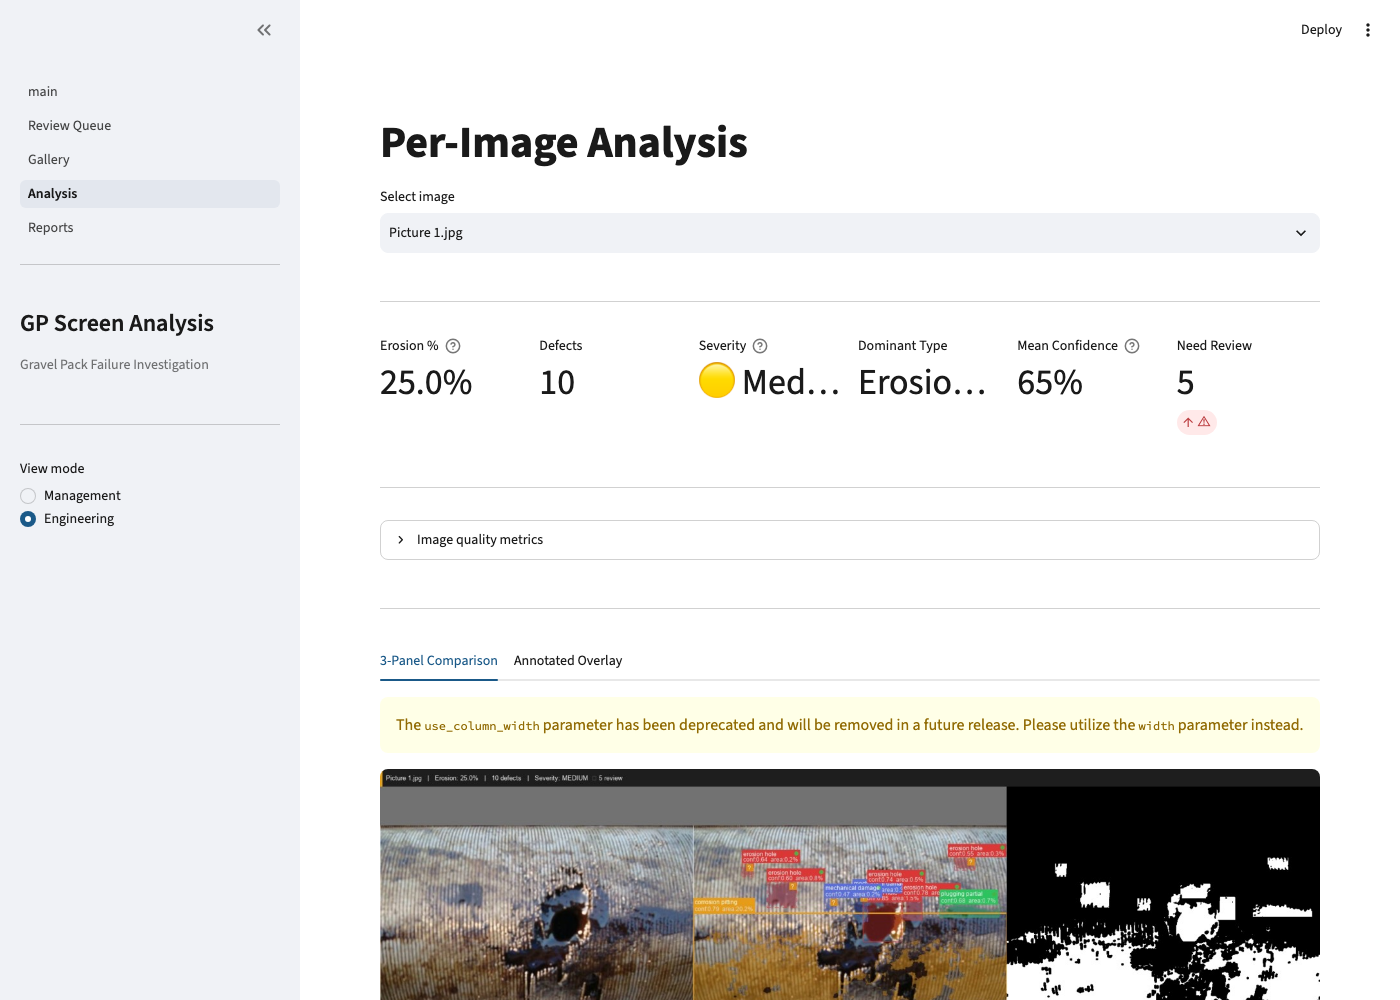
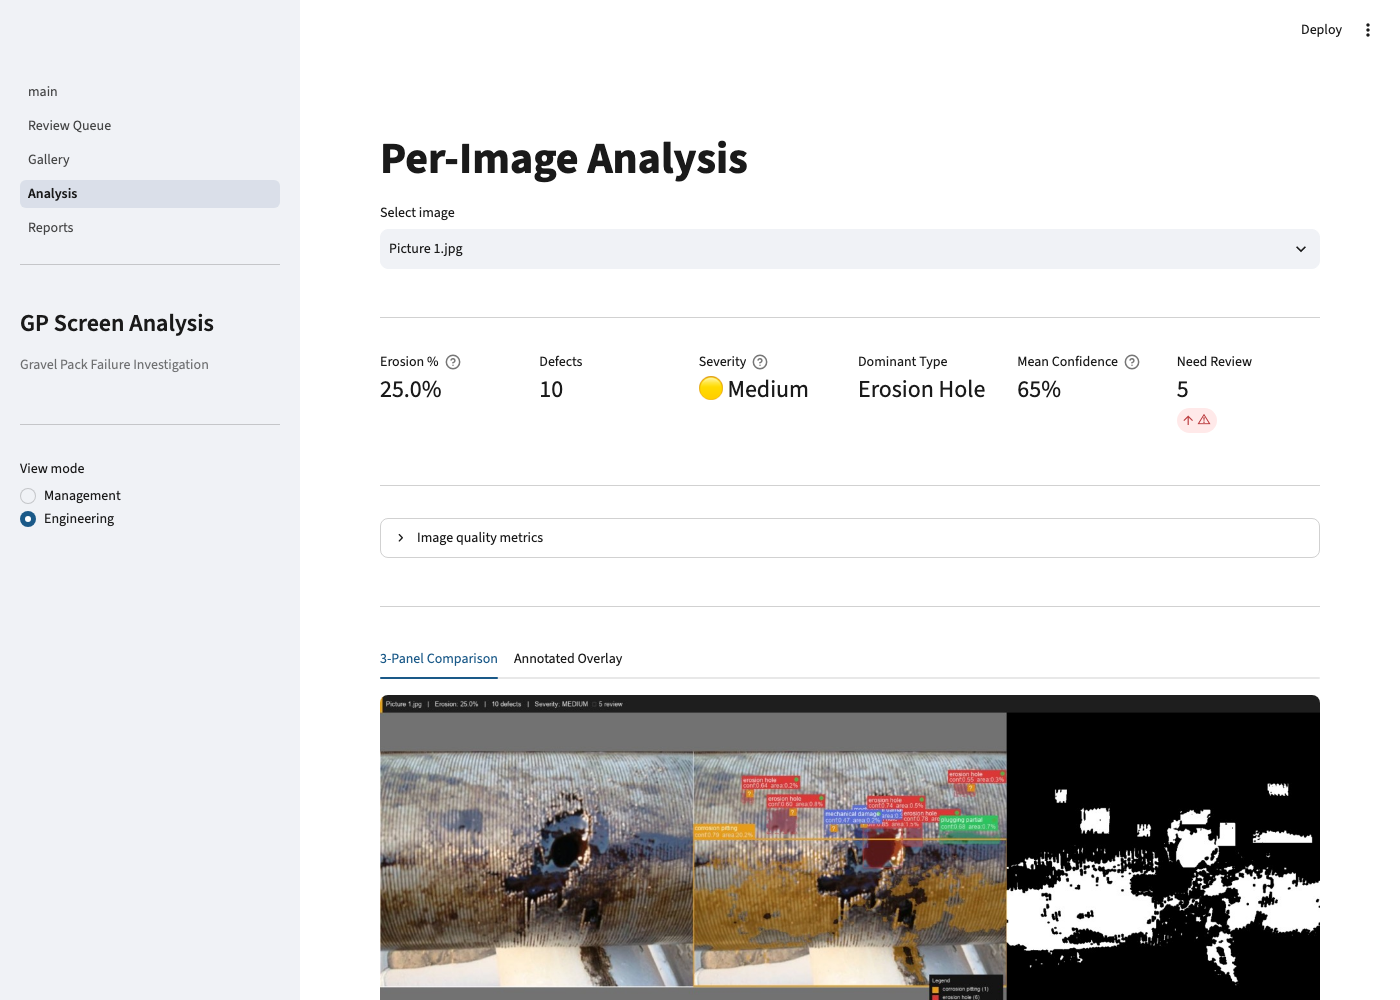
Fix truncated KPI metrics and deprecation warning on Analysis page
The 6-column KPI row truncated longer values ("Medium" -> "Med...",
"Erosion Hole" -> "Erosio...") at Streamlit's default metric font
size. Add a shared CSS rule (applied via render_sidebar_header, which
every page calls) that shrinks the metric value font and lets it wrap
instead of clipping. Also replace the deprecated use_column_width
image param with width="stretch", which was surfacing a warning
banner in the screenshot. Refresh the Analysis README screenshot.

diff --git a/app/components/image_viewer.py b/app/components/image_viewer.py
@@ -34,7 +34,7 @@ def show_three_panel(
         with col:
             img = _load(path)
             if img:
-                st.image(img, caption=caption, use_column_width=True)
+                st.image(img, caption=caption, width="stretch")
             else:
                 st.info(f"{caption}: not available")
 
@@ -43,7 +43,7 @@ def show_annotated(path: str | None, caption: str = "") -> None:
     """Display the annotated overlay full-width."""
     img = _load(path)
     if img:
-        st.image(img, caption=caption, use_column_width=True)
+        st.image(img, caption=caption, width="stretch")
     else:
         st.info("Annotated image not available")
 
@@ -52,7 +52,7 @@ def show_panel(path: str | None) -> None:
     """Display the 3-panel composite image (Original | Annotated | Mask)."""
     img = _load(path)
     if img:
-        st.image(img, use_column_width=True)
+        st.image(img, width="stretch")
     else:
         st.info("Panel image not available")
 

diff --git a/app/components/nav.py b/app/components/nav.py
@@ -13,6 +13,20 @@ def render_sidebar_header() -> str:
     selection persists across page navigation instead of resetting to the
     default on every page load.
     """
+    st.markdown(
+        """
+        <style>
+        [data-testid="stMetricValue"] {
+            font-size: 1.5rem;
+            white-space: normal;
+            overflow-wrap: break-word;
+            line-height: 1.25;
+        }
+        </style>
+        """,
+        unsafe_allow_html=True,
+    )
+
     with st.sidebar:
         st.title("GP Screen Analysis")
         st.caption("Gravel Pack Failure Investigation")

diff --git a/app/pages/3_Analysis.py b/app/pages/3_Analysis.py
@@ -154,7 +154,7 @@ if role == "Engineering":
         )
 else:
     if rec.get("annotated_path") and Path(rec["annotated_path"]).exists():
-        st.image(str(rec["annotated_path"]), use_column_width=True)
+        st.image(str(rec["annotated_path"]), width="stretch")
         st.caption(f"Annotated overlay — {selected}")
 
 st.divider()
